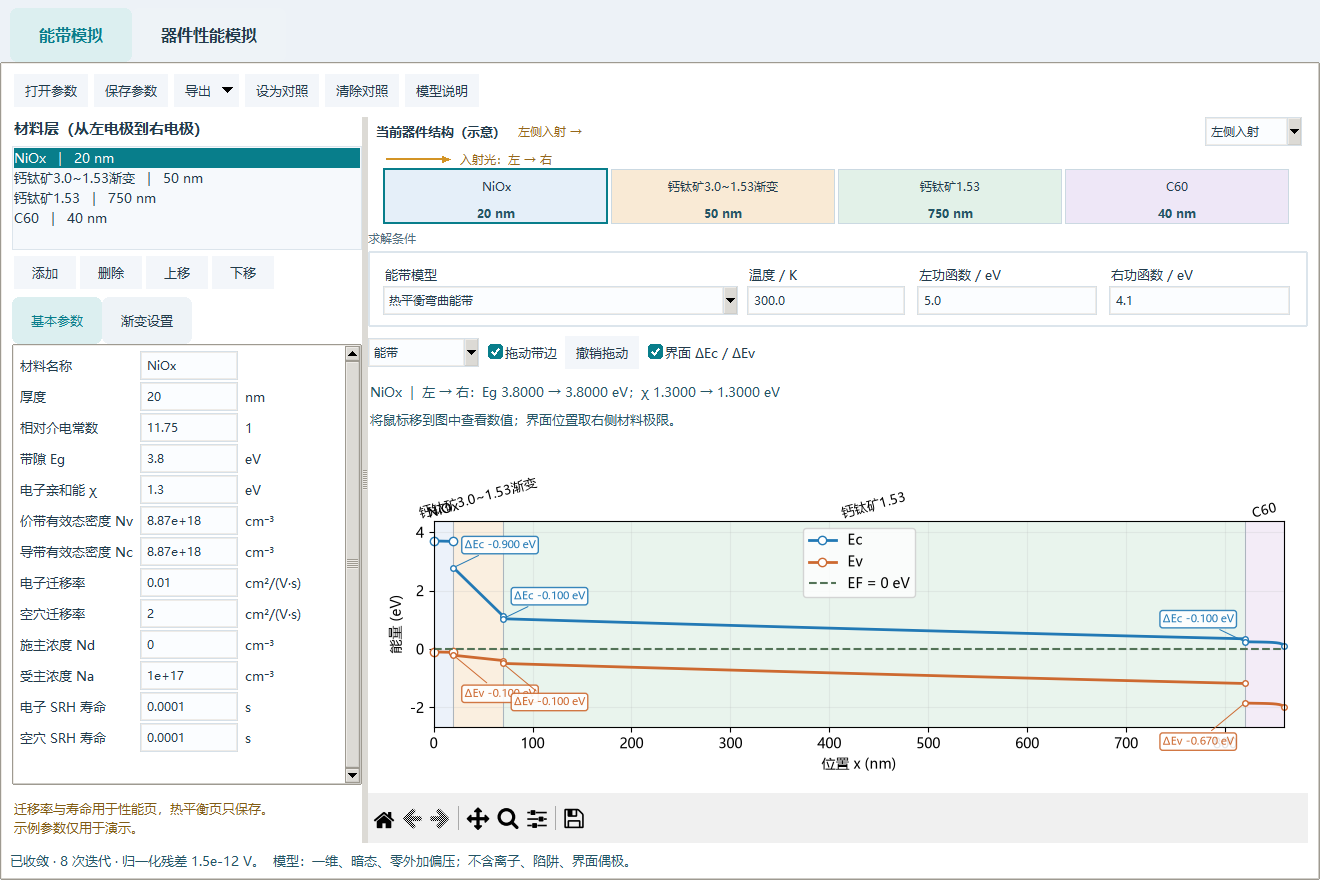
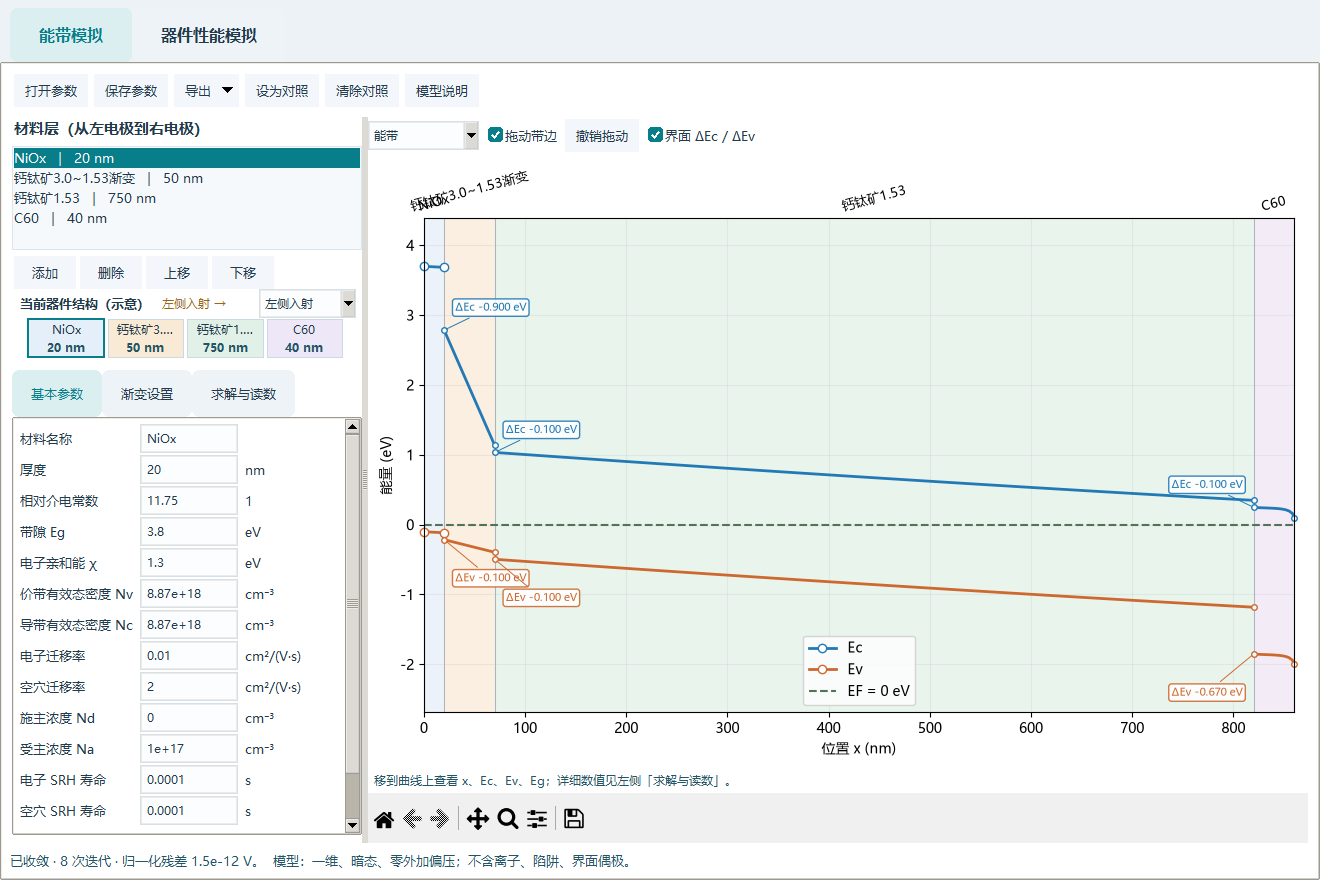
Give band plots more height on small screens and stabilize dragging

diff --git a/perovskite_studio/app.py b/perovskite_studio/app.py
@@ -74,6 +74,7 @@ class App(tk.Tk):
         for text,cmd in [('添加',self.add),('删除',self.remove),('上移',lambda:self.move(-1)),('下移',lambda:self.move(1))]:
             ttk.Button(buttons,text=text,width=5,command=cmd).pack(side='left',padx=2)
         notebook=ttk.Notebook(left); notebook.pack(fill='both',expand=True,pady=8)
+        self.band_settings_tabs=notebook
         form_scroll=ScrollableFrame(notebook,width=325);notebook.add(form_scroll,text='基本参数')
         form=form_scroll.content
         self.vars={}
@@ -108,25 +109,31 @@ class App(tk.Tk):
         fraction.trace_add('write',self.schedule)
         ttk.Label(box,text='0：固定电子亲和能，只改变价带\n1：固定真空参考价带，只改变导带\n0.5：带隙变化由两条带边均分',justify='left').pack(anchor='w')
         ttk.Label(grading,text='拖动会切换到「独立端点」，同步 Eg、χ。\n掺杂线性允许零浓度；对数两端须为正。',justify='left').pack(anchor='w',pady=6)
-        note=ttk.Label(left,text='迁移率与寿命用于性能页，热平衡页只保存。\n示例参数仅用于演示。',foreground='#805c16')
-        note.pack(side='bottom',anchor='w',pady=4,before=notebook)
+        note=ttk.Label(form,text='迁移率与寿命用于性能页，热平衡页只保存。\n示例参数仅用于演示。',foreground='#805c16',wraplength=300)
+        note.grid(row=len(FIELDS)+1,column=0,columnspan=3,sticky='w',pady=8)
         self.structure_direction=tk.StringVar(value='左侧入射')
         self.structure=DeviceStructure(body,direction_variable=self.structure_direction)
-        self.structure.pack(in_=right,fill='x',pady=(0,4))
-        self.structure.host=right
+        self.structure.minimum_cell=76
+        self.structure.set_compact(True)
+        self.structure.pack(in_=left,fill='x',pady=(0,4),before=notebook)
+        self.structure.host=left
         self.structure_direction.trace_add('write',self.update_structure)
-        controls=ttk.LabelFrame(right,text='求解条件',padding=10); controls.pack(fill='x',pady=(0,7))
+        conditions_scroll=ScrollableFrame(notebook,width=325)
+        notebook.add(conditions_scroll,text='求解与读数')
+        self.band_conditions=conditions_scroll
+        controls=ttk.LabelFrame(conditions_scroll.content,text='求解条件',padding=8)
+        controls.pack(fill='x',pady=(0,7))
         self.mode=tk.StringVar(value='热平衡弯曲能带')
         ttk.Label(controls,text='能带模型').grid(row=0,column=0,sticky='w',padx=3)
         combo=ttk.Combobox(controls,textvariable=self.mode,values=['热平衡弯曲能带','真空参考能级排列'],state='readonly',width=20)
-        combo.grid(row=1,column=0,sticky='ew',padx=3); combo.bind('<<ComboboxSelected>>',self.schedule)
-        controls.columnconfigure(0,weight=2)
+        combo.grid(row=0,column=1,sticky='ew',padx=3,pady=4); combo.bind('<<ComboboxSelected>>',self.schedule)
+        controls.columnconfigure(1,weight=1)
         self.settings={}
-        for col,(key,label,default) in enumerate([('T','温度 / K','300'),('left','左功函数 / eV','5.0'),('right','右功函数 / eV','4.1')],1):
-            ttk.Label(controls,text=label).grid(row=0,column=col,sticky='w',padx=6)
+        for row,(key,label,default) in enumerate([('T','温度 / K','300'),('left','左功函数 / eV','5.0'),('right','右功函数 / eV','4.1')],1):
+            ttk.Label(controls,text=label).grid(row=row,column=0,sticky='w',padx=3)
             var=tk.StringVar(value=default); self.settings[key]=var
-            ttk.Entry(controls,textvariable=var,width=7).grid(row=1,column=col,sticky='ew',padx=6)
-            controls.columnconfigure(col,weight=1);var.trace_add('write',self.schedule)
+            ttk.Entry(controls,textvariable=var,width=7).grid(row=row,column=1,sticky='ew',padx=3,pady=4)
+            var.trace_add('write',self.schedule)
         view_controls=FlowToolbar(right);view_controls.pack(fill='x',pady=(0,4))
         self.view=tk.StringVar(value='能带')
         self.view_combo=ttk.Combobox(view_controls,textvariable=self.view,
@@ -139,21 +146,24 @@ class App(tk.Tk):
         self.show_offsets=tk.BooleanVar(value=True)
         view_controls.add(ttk.Checkbutton(view_controls,text='界面 ΔEc / ΔEv',variable=self.show_offsets,command=self.change_view))
         self.drag_summary=tk.StringVar()
-        drag_label=ttk.Label(right,textvariable=self.drag_summary,foreground='#245565',wraplength=800)
+        drag_label=ttk.Label(conditions_scroll.content,textvariable=self.drag_summary,foreground='#245565',wraplength=300)
         drag_label.pack(fill='x',pady=5)
         self.hover_text=tk.StringVar(value='将鼠标移到图中查看该位置的数值。\n')
-        hover_label=ttk.Label(right,textvariable=self.hover_text,foreground='#245565',wraplength=850,justify='left')
+        hover_label=ttk.Label(conditions_scroll.content,textvariable=self.hover_text,foreground='#245565',wraplength=300,justify='left')
         hover_label.pack(fill='x',pady=(0,5))
-        def resize_band_right(event):
+        def resize_band_readings(event):
             for widget in (drag_label,hover_label):widget.configure(wraplength=max(200,event.width-20))
-            self.structure.fit_height(event.height,left,right,notebook,controls)
-        right.bind('<Configure>',resize_band_right)
-        self.fig=Figure(figsize=(8,6),dpi=100); self.fig.set_layout_engine('tight',pad=1.5)
+        conditions_scroll.content.bind('<Configure>',resize_band_readings,add='+')
+        self.fig=Figure(figsize=(8,6),dpi=100); self.fig.set_layout_engine('tight',pad=.8)
         self.ax=self.fig.add_subplot(111)
         self.canvas=FigureCanvasTkAgg(self.fig,master=right)
         self.canvas.get_tk_widget().configure(width=250,height=140)
         self.toolbar=NavigationToolbar2Tk(self.canvas,right,pack_toolbar=False)
         self.toolbar.pack(side='bottom',fill='x')
+        self.hover_readout=tk.StringVar(value='移到曲线上查看 x、Ec、Ev、Eg；详细数值见左侧「求解与读数」。')
+        self.band_readout=ttk.Label(right,textvariable=self.hover_readout,font=('Microsoft YaHei',9),
+                                    foreground='#245565',width=1,anchor='w',padding=(4,2))
+        self.band_readout.pack(side='bottom',fill='x')
         self.canvas.get_tk_widget().pack(fill='both',expand=True)
         self.canvas.mpl_connect('button_press_event',self.drag_press)
         self.canvas.mpl_connect('motion_notify_event',self.drag_motion)
@@ -248,6 +258,8 @@ class App(tk.Tk):
             self.status.set('未更新：'+str(e)); return False
 
     def plot(self):
+        # Restore automatic layout after the fixed-axes drag preview.
+        self.fig.set_layout_engine('tight',pad=.8)
         r=self.result; ax=self.ax; ax.clear(); pos=0
         ax.set_yscale('linear')
         self.band_artists={};self.offset_artists=[]
@@ -332,6 +344,7 @@ class App(tk.Tk):
 
     def clear_hover(self, event=None):
         self.hover_text.set('将鼠标移到图中查看数值。\n')
+        self.hover_readout.set('移到曲线上查看 x、Ec、Ev、Eg；详细数值见左侧「求解与读数」。')
         line=getattr(self,'hover_line',None)
         if line is not None and line.get_visible():
             line.set_visible(False);self.canvas.draw_idle()
@@ -346,6 +359,7 @@ class App(tk.Tk):
             text+=f"\nφ {v['phi']:.4f} V  ·  E {v['field']:+.3e} V/cm  ·  n {v['n']:.3e} cm⁻³  ·  p {v['p']:.3e} cm⁻³"
         else:text+='\n真空参考排列：不计算静电势、电场和载流子浓度。'
         self.hover_text.set(text)
+        self.hover_readout.set(f"x {x:.2f} nm  ·  Ec {v['Ec']:.3f}  ·  Ev {v['Ev']:.3f}  ·  Eg {v['Eg']:.3f} eV")
         self.hover_line.set_xdata([x,x]);self.hover_line.set_visible(True);self.canvas.draw_idle()
 
     def drag_target(self,event):
@@ -375,6 +389,8 @@ class App(tk.Tk):
         self.index=i;self.refresh_list();self.show_fields()
         self.drag=dict(before=deepcopy(self.layers),result=self.result,index=i,band=key,part=part,
                        y=event.ydata,segments=deepcopy(self.segments),changed=False)
+        # Adding the preview title must not move the axes under the pointer.
+        self.fig.set_layout_engine(None)
         self.canvas.get_tk_widget().focus_set()
         self.canvas.get_tk_widget().configure(cursor='sb_v_double_arrow')
         self.status.set('上下拖动调整带边；左侧参数实时更新。松开求解；Esc 取消。')

diff --git a/tests/test_drag_ui.py b/tests/test_drag_ui.py
@@ -103,6 +103,26 @@ class DragUI(unittest.TestCase):
         self.assertEqual(a.offset_artists,[])
         a.clear_hover();self.assertFalse(a.hover_line.get_visible())
 
+    def test_small_screen_plot_stays_tall_and_stable_while_dragging(self):
+        a=self.app
+        for geometry,minimum_height in (('1024x650',260),('900x560',160),('1320x880',460)):
+            a.geometry(geometry);a.update();a.canvas.draw();a.update()
+            self.assertGreater(a.ax.bbox.height,minimum_height)
+            self.assertTrue(a.structure.winfo_viewable())
+            self.assertEqual(int(a.listbox['height']),5)
+        a.geometry('1024x650');a.update();a.canvas.draw();a.update()
+        before=a.ax.bbox.bounds
+        self.emit('motion_notify_event',250,-4)
+        self.assertIn('Ec',a.hover_readout.get())
+        np.testing.assert_allclose(a.ax.bbox.bounds,before,atol=.5)
+        self.drag('Ec','right',.15,release=False)
+        np.testing.assert_allclose(a.ax.bbox.bounds,before,atol=.5)
+        a.cancel_drag();a.update()
+        self.assertIsNotNone(a.fig.get_layout_engine())
+        a.band_settings_tabs.select(a.band_conditions);a.update()
+        self.assertTrue(a.band_conditions.winfo_viewable())
+        self.assertGreater(a.ax.bbox.height,260)
+
     def test_diagnostic_views_and_vacuum_mode(self):
         a=self.app;a.mode.set('热平衡弯曲能带');a.calculate();a.update()
         a.compare()

diff --git a/perovskite_studio/app_info.py b/perovskite_studio/app_info.py
@@ -1,5 +1,5 @@
 """Shared product identity."""
 APP_NAME = '钙钛矿器件模拟工作台'
 APP_ENGLISH_NAME = 'Perovskite Device Studio'
-APP_VERSION = '1.3.4'
+APP_VERSION = '1.3.5'
 APP_ID = 'mumium.PerovskiteDeviceStudio'

diff --git a/README.md b/README.md
@@ -2,7 +2,9 @@
 
 <img src="assets/logo.png" width="96" alt="钙钛矿器件模拟工作台图标">
 
-Python / Windows 桌面工具，将能带分析和器件性能模拟整合到两个独立页面。能带页查看真空参考排列、自洽热平衡能带、电场与载流子浓度；性能页用 SimSS 计算均匀或渐变器件的稳态 J–V、Jsc、Voc、FF、PCE。版本 **1.3.4**。
+Python / Windows 桌面工具，将能带分析和器件性能模拟整合到两个独立页面。能带页查看真空参考排列、自洽热平衡能带、电场与载流子浓度；性能页用 SimSS 计算均匀或渐变器件的稳态 J–V、Jsc、Voc、FF、PCE。版本 **1.3.5**。
+
+1.3.5 更新：能带页的结构图移到左侧，求解条件与详细读数收纳在左侧「求解与读数」页签，右侧为图表保留更多高度；底部保留一行即时读数。拖动时固定坐标区位置，避免预览标题引起布局跳动。
 
 1.3.4 更新：保留原有图标，修复运行窗口只向 Windows 提供 32 px 大图标的问题，任务栏 / Alt+Tab 改为显式加载原图的 256 px 资源；ICO 补齐 16–256 px 共 14 档尺寸，并设置独立的 Windows 应用标识。模拟模型与参数不变。
 
@@ -14,7 +16,7 @@ Python / Windows 桌面工具，将能带分析和器件性能模拟整合到两
 
 Windows 打包版：双击 `dist/PerovskiteDeviceStudio.exe`，无需安装 Python 或 SimSS。可单独复制 EXE 到其他 Windows 64 位电脑运行。旧版 `PerovskiteBandTool.exe` 不再作为当前版本入口。
 
-[下载 Windows 1.3.4 单文件版](https://github.com/mumium/perovskite-device-studio/releases/download/v1.3.4/PerovskiteDeviceStudio.exe) · [下载文件夹版 ZIP](https://github.com/mumium/perovskite-device-studio/releases/download/v1.3.4/PerovskiteDeviceStudio-1.3.4-portable.zip) · [版本发布页](https://github.com/mumium/perovskite-device-studio/releases/tag/v1.3.4)
+[下载 Windows 1.3.5 单文件版](https://github.com/mumium/perovskite-device-studio/releases/download/v1.3.5/PerovskiteDeviceStudio.exe) · [下载文件夹版 ZIP](https://github.com/mumium/perovskite-device-studio/releases/download/v1.3.5/PerovskiteDeviceStudio-1.3.5-portable.zip) · [版本发布页](https://github.com/mumium/perovskite-device-studio/releases/tag/v1.3.5)
 
 重新打包：安装项目依赖及 `pyinstaller`，再运行 `build_exe.bat`。程序为单文件无控制台版本，首次启动需要解压运行依赖，可能稍慢。
 
@@ -36,7 +38,7 @@ Windows 打包版：双击 `dist/PerovskiteDeviceStudio.exe`，无需安装 Pyth
 
 可复用结构统一保存在 [device_structures](device_structures/README.md)，以后新增 JSON 可继续加入此目录。性能页「打开参数」默认浏览这个目录，打包版也内置该参数库。
 
-两个页面的左侧材料列表可一次显示 5 层；结构图按左到右顺序显示当前层的名称和厚度，选中层高亮。修改名称或厚度会即时更新结构图，增删、排序、导入和打开参数后同步更新。方块宽度为示意，实际厚度以标注为准；层数较多时支持横向滚动。窗口较矮时，结构图移到左侧编辑区，为结果曲线留出空间。
+两个页面的左侧材料列表可一次显示 5 层；结构图按左到右顺序显示当前层的名称和厚度，选中层高亮。修改名称或厚度会即时更新结构图，增删、排序、导入和打开参数后同步更新。方块宽度为示意，实际厚度以标注为准；层数较多时支持横向滚动。能带页的结构图固定在左侧，模型、温度、电极功函数及完整读数在左侧「求解与读数」页签；性能页在窗口较矮时将结构图移到左侧，为结果曲线留出空间。
 
 性能页箭头跟随「光谱与光学 → 照射方向」；能带页可单独选择示意方向，并随能带项目保存，**能带求解仍为暗态**。结构图对应当前编辑输入，保留的 J–V / EQE 曲线仍对应最近成功计算的参数快照。
 

diff --git a/CHANGELOG.md b/CHANGELOG.md
@@ -1,5 +1,12 @@
 # 更新记录
 
+## 1.3.5 · 2026-10-16
+
+- 能带页结构图移到左侧，以紧凑形式持续显示名称、厚度与入射方向；求解模型、温度、功函数和详细读数归入左侧可滚动的「求解与读数」页签。
+- 右侧主要显示曲线、图表控制与一行即时读数，减少图表留白。1024×650 窗口的实际坐标区高度由约 11 px 增至约 275 px（默认示例、当前测试环境）。材料列表仍显示 5 行。
+- 拖动预览期间停止自动调整图表边距，防止预览标题使坐标区移动；松开或取消拖动后恢复自动排版。
+- 增加真实窗口回归检查，覆盖 900×560、1024×650、1320×880，以及悬停和拖动时坐标区的稳定性。保留原图标与 256 px 任务栏图标修复；模拟模型不变。
+
 ## 1.3.4 · 2026-10-16
 
 - 保留原有图标图案，修复 Tk 默认只向 Windows 提供 32 px 大图标、被继续放大后变模糊的问题。窗口映射后显式加载原图的 256 px 图标并设置为 ICON_BIG，供任务栏 / Alt+Tab 缩小使用；标题栏继续使用系统所需的小图标。
